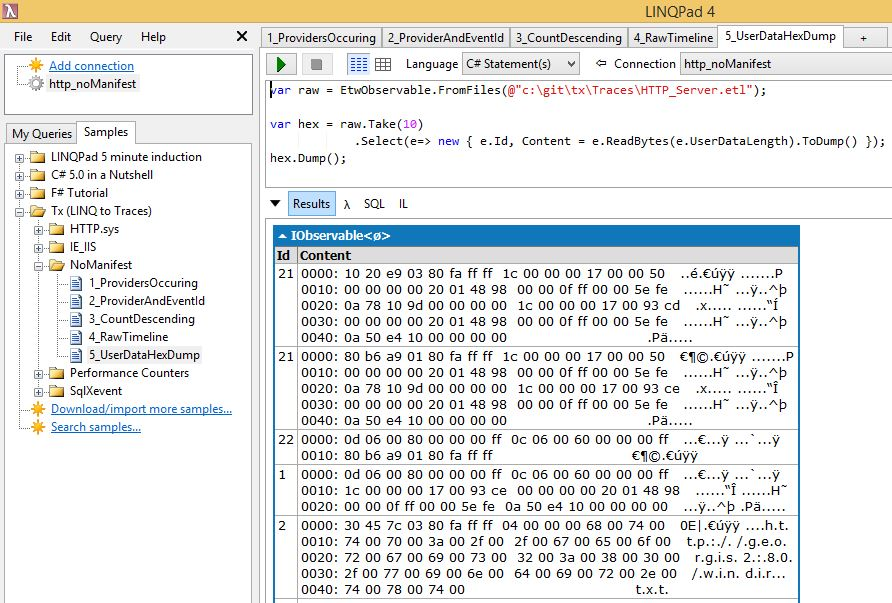
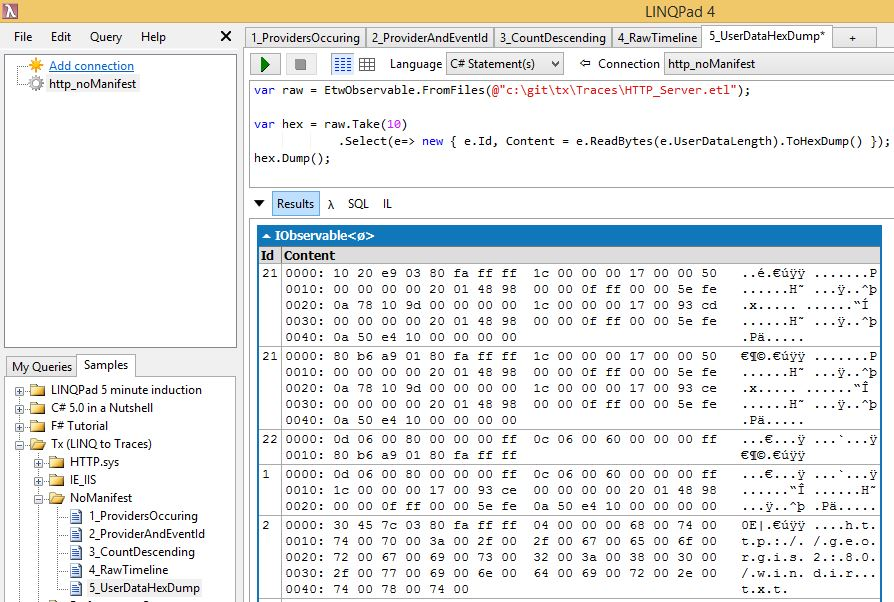
Changing the extension name as ToHexDump(this byte[] b) to avoid confusion with LINQPad's Dump()

Changed region(s): [[0.0, 0.0, 1.0, 1.0], [0.0605, 0.0897, 0.1513, 0.1495], [0.1513, 0.0598, 0.1816, 0.0897]]

diff --git a/Source/Tx.Core/ByteArrayExtensions.cs b/Source/Tx.Core/ByteArrayExtensions.cs
@@ -6,7 +6,12 @@ namespace System.Reactive
 {
     public static class ByteArrayExtensions
     {
-        public static string ToDump(this byte[] bytes)
+        /// <summary>
+        /// Displays the byte array as hex-dump, like within a debugger
+        /// </summary>
+        /// <param name="bytes">array to display as hex</param>
+        /// <returns></returns>
+        public static string ToHexDump(this byte[] bytes)
         {
             StringBuilder sb = new StringBuilder();
             int lineOffset = 0;

diff --git a/Samples/LinqPad/Queries/NoManifest/Readme.md b/Samples/LinqPad/Queries/NoManifest/Readme.md
@@ -59,20 +59,20 @@ Although we can't format events as text, we can at least see some of the data th
 
 ## Hex dump of the user data
 
-To look at raw event data, Tx.Core has an extension method string `ToDump(this byte[])`, which can be used on the UserData or any binary payload of structured events.
+To look at raw event data, Tx.Core has an extension method string `ToHexDump(this byte[])`, which can be used on the UserData or any binary payload of structured events.
 
-Unfortunately, the events at the level of playback no longer contain the byte arrays - they are just C# objects on the heap. To get access to the raw data we can use [EtwObservable.cs](../../../Source/Tx.Windows/EtwNative/EtwObservable.cs), which belongs to lower layer of Tx.
+Unfortunately, the events at the level of playback no longer contain the byte arrays - they are just C# objects on the heap. To get access to the raw data we can use [EtwObservable.cs](../../../../Source/Tx.Windows/EtwNative/EtwObservable.cs), which belongs to lower layer of Tx.
 
 Here is example [query](5_UserDataHexDump.linq)
 
 ![5_UserDataHexDump.JPG](5_UserDataHexDump.JPG)
 
-Here the layout is distorted a bit by the default font used in LinqPad. To read the data in Notepad, instead of .Dump() you can do:
 
-        hex.ToCsvFile(@"c:\Repro\hex.csv");
-        playback.Run();
-        
-This will produce no output in LinqPad, and will export the data to the .csv file. Note that:
+To display hex-dumps it is best to change the font:
 
-- when using LinqPad, it is best to do .Take and .Skip to keep the output under say 1000 lines
-- The .ToCsvFile extension can be used to export the data in streaming fashion regardless of the file size
+- click Edit, Preferences
+- choose the Results tab
+- set the style sheet to custom and launch the editor
+- overwrite the font to Courier New
+
+![FontPreferences.JPG](FontPreferences.JPG)
